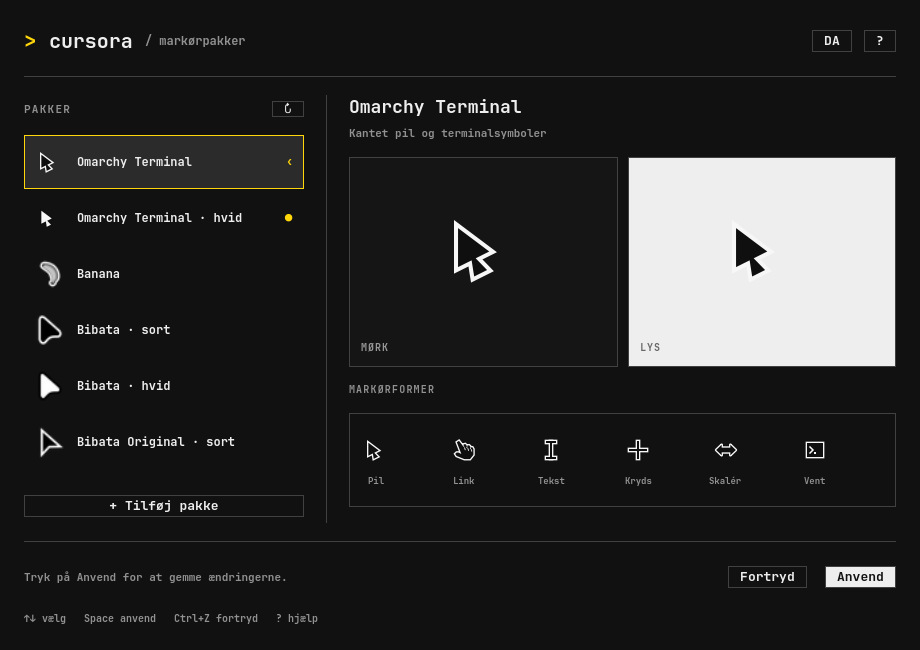
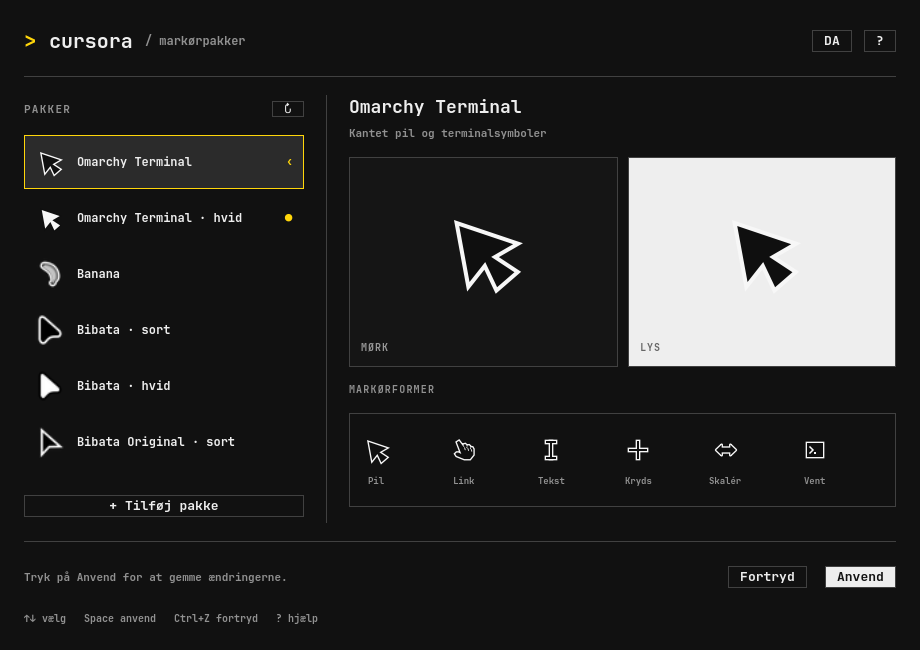
Match the Omarchy pointer to the sketched silhouette

diff --git a/tests/check_packs.py b/tests/check_packs.py
@@ -52,12 +52,15 @@ def frames(data):
     return result
 
 def pointer_asymmetry(alpha, width, xhot, yhot):
+    axis_x, axis_y = 13, 15
+    length_squared = axis_x**2 + axis_y**2
+    diagonal = (axis_x**2 - axis_y**2) / length_squared
+    cross = 2 * axis_x * axis_y / length_squared
     difference = 0
     for i, coverage in enumerate(alpha):
         x, y = i % width + .5 - xhot, i // width + .5 - yhot
-        # Reflect across the pointer axis, whose direction is (1, 2).
-        mirror_x = round(xhot - .5 - .6 * x + .8 * y)
-        mirror_y = round(yhot - .5 + .8 * x + .6 * y)
+        mirror_x = round(xhot - .5 + diagonal * x + cross * y)
+        mirror_y = round(yhot - .5 + cross * x - diagonal * y)
         mirrored = alpha[mirror_y * width + mirror_x] if 0 <= mirror_x < width and 0 <= mirror_y < width else 0
         difference += abs(coverage - mirrored)
     return difference / sum(alpha)
@@ -65,6 +68,7 @@ def pointer_asymmetry(alpha, width, xhot, yhot):
 archives = {}
 checked_files = checked_frames = 0
 straight_resize = {'n-resize', 'e-resize', 's-resize', 'w-resize'}
+extended_canvas = straight_resize | {'left_ptr'}
 hand_shapes = {'hand2', 'grab', 'grabbing'}
 outline_samples = {
     'left_ptr': (10, 0, 6),
@@ -104,7 +108,8 @@ for theme, pack in packs.items():
                                for p, d in zip(pixels, dark_pixels)), f'Colors are not swapped in {cursor}'
             for meta, pixels in images:
                 nominal, _, width, height, xhot, yhot, delay = meta
-                extent = nominal * 32 // 24 if cursor.name in straight_resize else nominal
+                extent = nominal * 32 // 24 if cursor.name in extended_canvas else nominal
+                padding = (extent - nominal) // 2
                 assert extent == width == height and 0 <= xhot < width and 0 <= yhot < height
                 if cursor.name in straight_resize:
                     assert xhot == yhot == extent // 2, f'Off-center hotspot in {cursor}'
@@ -112,13 +117,18 @@ for theme, pack in packs.items():
                 assert all(((p >> 16) & 255) == ((p >> 8) & 255) == (p & 255) for p in pixels)
                 if cursor.name == 'left_ptr':
                     alpha = [p >> 24 for p in pixels]
+                    assert xhot == yhot == padding + nominal // 12, f'Pointer hotspot moved in {cursor}'
                     assert alpha[yhot * width + xhot] > 0, f'Invisible click tip at {nominal}px'
                     assert any(0 < a < 255 for a in alpha), f'Jagged arrow edge at {nominal}px'
                     fill_area = sum((outline_value * a / 255 - (p & 255)) / (outline_value - fill_value)
                                     for p, a in zip(pixels, alpha))
                     assert fill_area >= nominal * nominal / 10, f'Arrow core is too small at {nominal}px'
-                    columns = [i % width for i, a in enumerate(alpha) if a >= 128]
-                    assert max(columns) - min(columns) + 1 <= nominal * 2 // 3, f'Arrow is too wide at {nominal}px'
+                    visible = [i for i, a in enumerate(alpha) if a >= 128]
+                    columns = [i % width for i in visible]
+                    rows = [i // width for i in visible]
+                    assert nominal * 9 // 10 <= max(columns) - min(columns) + 1 <= nominal, (
+                        f'Unexpected arrow width at {nominal}px')
+                    assert max(rows) - min(rows) + 1 >= nominal * 23 // 24, f'Arrow is too short at {nominal}px'
                     if nominal == native * 4:
                         assert pointer_asymmetry(alpha, width, xhot, yhot) < .04, f'Asymmetric arrow in {cursor}'
                 elif cursor.name in hand_shapes or cursor.name.endswith('-resize'):
@@ -134,7 +144,8 @@ for theme, pack in packs.items():
                 assert max(p >> 24 for p in edges) <= 64, f'Clipped glyph: {cursor}'
                 if nominal == native * 4 and cursor.name in outline_samples:
                     row, start, end = outline_samples[cursor.name]
-                    start, end = (row * width + start) * 4, (row * width + end) * 4
+                    offset = (row * 4 + padding) * width + padding
+                    start, end = offset + start * 4, offset + end * 4
                     # Recover outline coverage from the two colors and premultiplied alpha.
                     border = sum(((p & 255) - fill_value * (p >> 24) / 255) / (outline_value - fill_value)
                                  for p in pixels[start:end])

diff --git a/src/omarchycursor.cpp b/src/omarchycursor.cpp
@@ -16,7 +16,7 @@
 namespace {
 using Kind = QByteArray;
 constexpr int BaseSize = 24;
-constexpr int StraightResizePadding = 4;
+constexpr int ExtendedCanvasPadding = 4;
 constexpr qreal OutlineThickness = 1.35;
 constexpr QColor Ink(15, 15, 15);
 constexpr QColor Paper(247, 247, 247);
@@ -176,13 +176,14 @@ QImage render(const Kind &kind, int size, int frame, int padding, const Palette 
     QPainterPath path;
     if (kind == "left_ptr") {
         const QPointF tip{2, 2};
-        const QPointF axis = QLineF(0, 0, 1, 2).unitVector().p2();
+        const QPointF axis = QLineF(0, 0, 13, 15).unitVector().p2();
         const QPointF across{axis.y(), -axis.x()};
-        const QPointF shoulders = tip + axis * 16;
-        const QPointF end = tip + axis * 21.2;
-        // Mirror the whole silhouette across the pointer's axis.
-        line(path, {tip, shoulders + across * 8, shoulders + across * 2.6, end + across * 4.25,
-                    end - across * 4.25, shoulders - across * 2.6, shoulders - across * 8});
+        const QPointF shoulders = tip + axis * 20.9;
+        const QPointF neck = tip + axis * 19.15;
+        const QPointF end = tip + axis * 27.7;
+        // Use the same angular shoulder and flared tail on both sides.
+        line(path, {tip, shoulders + across * 12.3, neck + across * 3.2, end + across * 5.6,
+                    end - across * 5.6, neck - across * 3.2, shoulders - across * 12.3});
         path.closeSubpath();
         drawArrow(painter, path, palette);
     } else if (kind == "hand2") {
@@ -277,10 +278,11 @@ bool writeCursor(const QString &filename, const Kind &kind, const Palette &palet
     auto *images = XcursorImagesCreate(4 * frames);
     if (!images) return false;
     const QPoint hotspot = logicalHotspot(kind);
-    // The rotated corner needs extra canvas. Keep the nominal size and scale unchanged.
+    // Larger silhouettes need extra canvas while keeping the nominal size matched to the theme.
     const bool straightResize = kind.endsWith("-resize") && kind.chopped(7).size() == 1;
+    const bool extendedCanvas = kind == "left_ptr" || straightResize;
     for (int size : sizes) {
-        const int padding = straightResize ? StraightResizePadding * size / BaseSize : 0;
+        const int padding = extendedCanvas ? ExtendedCanvasPadding * size / BaseSize : 0;
         for (int frame = 0; frame < frames; ++frame) {
             const int extent = size + 2 * padding;
             auto *image = XcursorImageCreate(extent, extent);

diff --git a/src/main.cpp b/src/main.cpp
@@ -27,7 +27,7 @@ int main(int argc, char *argv[]) {
     }
     QGuiApplication app(argc, argv);
     app.setApplicationName("cursora");
-    app.setApplicationVersion("0.5.3");
+    app.setApplicationVersion("0.5.4");
     app.setDesktopFileName("cursora");
     app.setWindowIcon(QIcon::fromTheme("cursora"));
     QQuickStyle::setStyle("Material");
